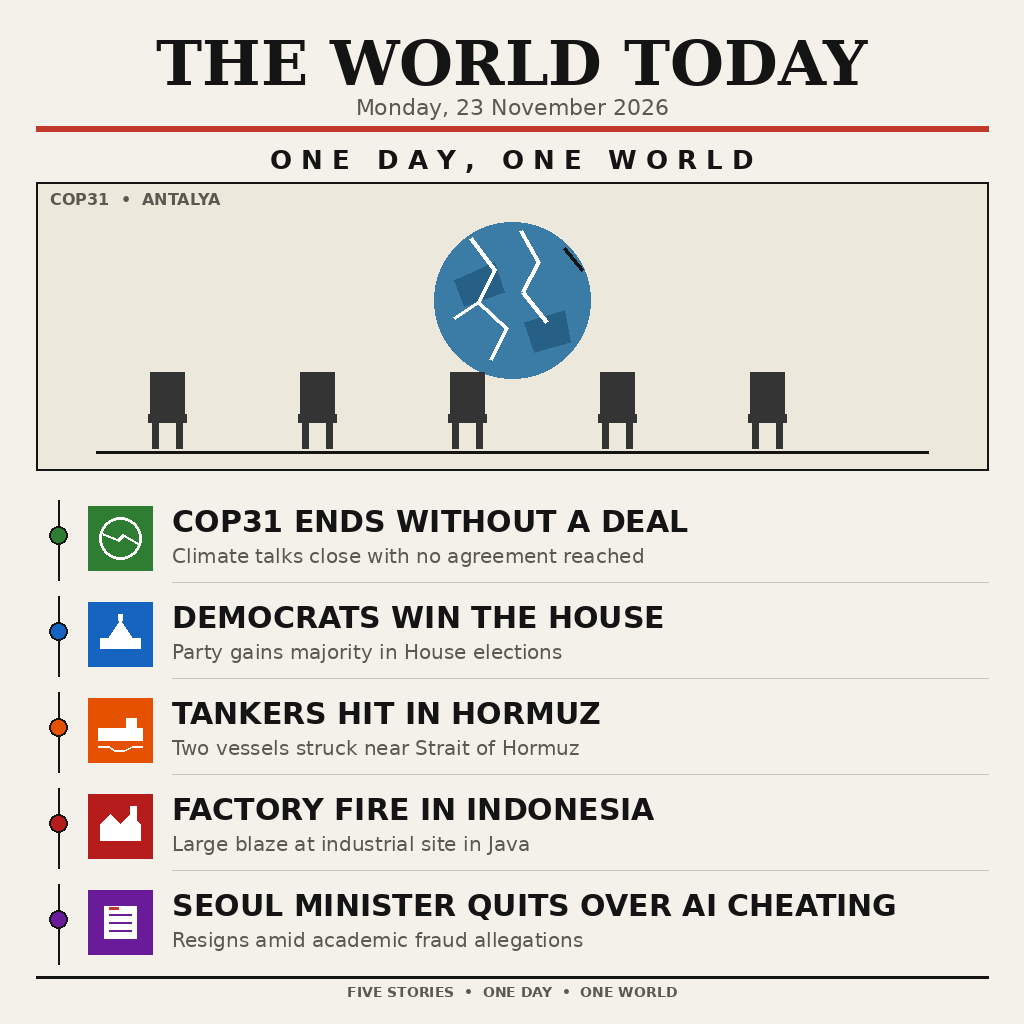
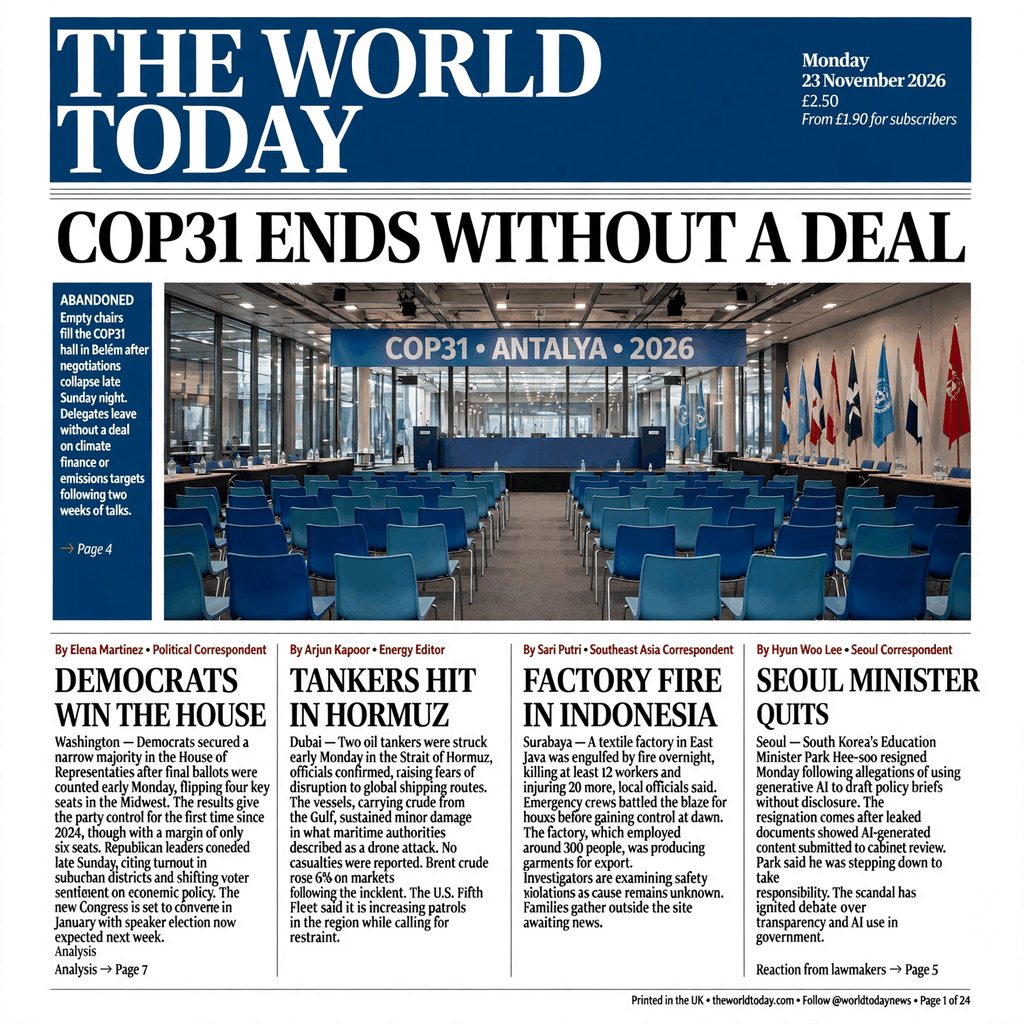
News image entry for make.fun news-image-20261123 (Guardian-style version)

diff --git a/README.md b/README.md
@@ -5,8 +5,9 @@ make.fun bounty entry: `news-image-20261123`.
 One image, "ONE DAY, ONE WORLD" — a newspaper front page for Monday,
 23 November 2026. The central visual is a cracked globe over a row of
 empty chairs in a conference hall, for the COP31 climate summit ending without
-a deal. The image is drawn entirely with Python PIL — flat colour shapes and
-system fonts, no AI-generated imagery.
+a deal. The page follows the layout, typography and palette of a real
+broadsheet front page (The Guardian, 5 August 2025, style reference only —
+none of its text or photos were copied).
 
 ## Run
 
@@ -21,6 +22,8 @@ current time. Running it twice produces byte-identical output.
 ## Files
 
 - `entry.png` — the 1024x1024 image (under 1 MiB)
-- `draw.py` — the PIL script that draws `entry.png` from scratch
+- `draw.py` — an alternative PIL-drawn version of the same front page
+  (flat shapes and system fonts, no AI imagery); not the generator of
+  `entry.png`, kept as a second take on the design
 - `main.py` — copies `entry.png` to `/output/entry.png`
 - `LICENSE` — MIT
